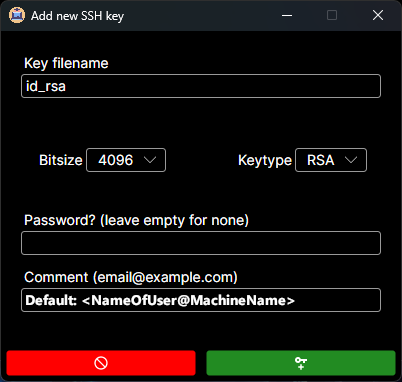
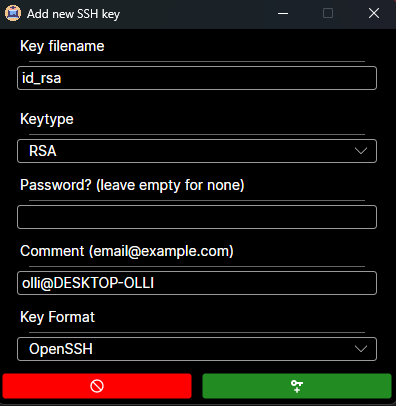
Update README with new features and dependencies
Added explanations and screenshots of new V2 UI features to the README. These include options to convert key formats, sort keys, and quickly connect to previously saved connections. Also, updated the list of dependencies and added a new section on how the program handles password storage.

Changed region(s): [[0.0, 0.5471, 1.0, 1.0], [0.0, 0.0, 1.0, 0.5183]]

diff --git a/README.md b/README.md
@@ -32,6 +32,28 @@ if you click on it.
 
 #### Main Window
 ![](images/MainWindow.png)
+##### V2 UI
+![](images/NewMainUI.png)  
+You can now convert the Key to the opposite format.  
+You can choose to delete or keep the key.  
+If the key is kept, the program will move it into a newly created sub-folder of your  
+.ssh directory.
+##### Key without provided password
+![](images/FoundPasswordProtectedKey.png)
+##### Password options, when a password was provided
+![](images/ShowForgetPws.png)
+##### Provide password prompt
+![](images/ProvidePasswordPrompt.png)
+##### Application Settings
+![](images/AppSettings.png)
+App settings can be accessed through the settings context menu.
+There is also an option, that the program converts all PPK keys in your .ssh directory  
+to the OpenSSH format. The PPK Keys are not deleted, they will be put into a folder called PPK
+![](images/SettingsContextMenu.png)
+
+##### Sorting feature
+You can sort the keys, if you want to. Just click on the top description category to sort by.
+![](images/Sorted.png)
 
 #### Add SSH Key
 ![](images/AddKeyWindow.png)
@@ -44,7 +66,13 @@ Right-Click on the Connection-status icon and click "Connect" on the showing men
 - You can also auth with a public key from the recognized keys on your machine!   
 ![](images/ConnectToServerWindowWithKey.png)
 
-- You need to test the connection before you can submit it.  
+- V2 Feature: Quick Connect
+![](images/ConnectToServerQuickConnect.png)  
+If you submitted a valid connection earlier, the program will save the connection,  
+and suggest this connection here for quick access.  
+
+
+- You need to test the connection before you can submit it, if you do not use the new Quick-Connect feature.  
 If you get a connection error, an error window shows up.  
 ![](images/ConnectToServerWindowSuccess.png)
 
@@ -79,6 +107,20 @@ If you want to remove the whole host, just toggle the button on the top label.
 ***Tooltip from connection***   
 ![](images/tooltipServer.png)
 
+## Further Information
+
+- The program will create these at startup without prompting if they don't exist:  
+.ssh/(**authorized_keys**, **known_hosts**)  
+  (.config/OpenSSH_GUI/ | AppData\Roaming\OpenSSH_GUI\) **OpenSSH_GUI** and a "logs" directory
+
+### Attention: This program will save your Passwords!  
+You can not disable this feature. The Passwords are stored when:  
+- you enter a server connection with a password
+- provide a password for a keyfile
+
+Your passwords are stored on your local machine inside the SQLite Database, protected with AES-Encryption.  
+Only the program itself can read any kind of string value inside the database.
+
 ## Plans for the future
 
 - [X] ~~Add functionality for putting a key onto a Server~~
@@ -86,7 +128,7 @@ If you want to remove the whole host, just toggle the button on the top label.
 - [X] ~~Add functionality for editing authorized_keys~~
 - [ ] Add functionality for editing local and remote SSH (user/root) Settings
 - [ ] Add functionality for editing application settings
-- [ ] Servers should be saved and quickly accessed in the connect window.
+- [X] ~~Servers should be saved and quickly accessed in the connect window.~~
 - many more not yet known!
 
 ## Authors
@@ -108,7 +150,19 @@ who participated in this project.
 
 - [Material.Icons](https://github.com/SKProCH/Material.Icons)  
 
-- [SSH.NET](https://github.com/sshnet/SSH.NET)
+- [SSH.NET](https://github.com/sshnet/SSH.NET)  
+
+- [Serilog](https://serilog.net/)  
+
+- [SshNet.Keygen](https://github.com/darinkes/SshNet.Keygen/)  
+
+- [SshNet.PuttyKeyFile](https://github.com/darinkes/SshNet.PuttyKeyFile)  
+
+- [EntityFrameworkCore](https://github.com/dotnet/EntityFramework.Docs)  
+
+- [EntityFrameworkCore.DataEncryption](https://github.com/Eastrall/EntityFrameworkCore.DataEncryption)
+
+- [SQLite](https://sqlite.org/)
 
 ## License
 
